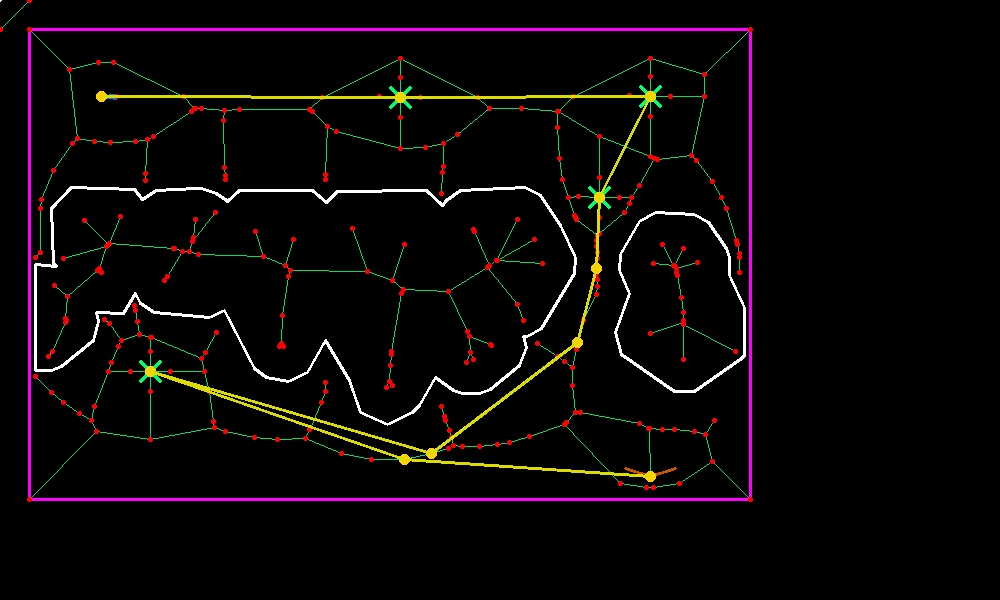
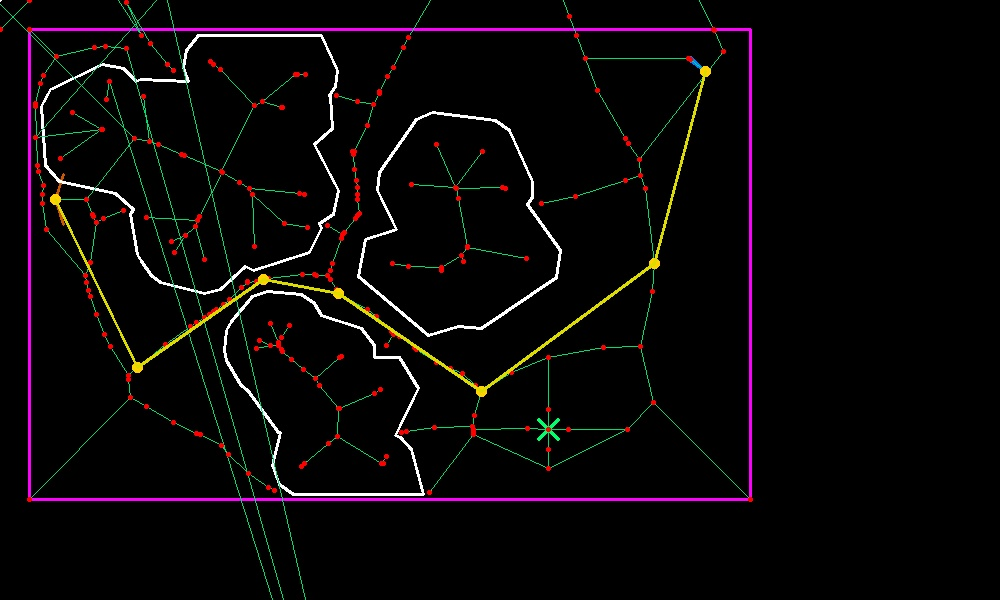
final value

diff --git a/src/find_robot.cpp b/src/find_robot.cpp
@@ -5,7 +5,7 @@ namespace student {
                    const std::string &config_folder) {
 
         //aumento luminosità.... penultimo parametro é alfa, ultimo è beta  pixel = pixel*alfa+beta
-        img_in.convertTo(img_in, -1, 2, 0);
+        img_in.convertTo(img_in, -1, 1.5, 0);
         //aumento della staturazione
         // BGR to HSV
         cv::Mat img;
@@ -25,7 +25,7 @@ namespace student {
 
         cv::Mat blue_mask;
         //cv::inRange(hsv_img, cv::Scalar(100, 120, 150), cv::Scalar(135, 255, 255), blue_mask);
-        cv::inRange(hsv_img, cv::Scalar(100, 100, 30), cv::Scalar(130, 255, 255), blue_mask);
+        cv::inRange(hsv_img, cv::Scalar(90, 80, 70), cv::Scalar(130, 255, 255), blue_mask);
 
         std::vector<std::vector<cv::Point>> contours;
         cv::findContours(blue_mask, contours,

diff --git a/src/student_interface.cpp b/src/student_interface.cpp
@@ -412,7 +412,7 @@ namespace student {
         std::vector<Polygon> merged_list = mergePolygon(englarge_obstacle, obstacle_border);
 
         //Enlargement and merge bigger for prunig level 2
-        std::vector<Polygon> clean_obstacle = enlargeObstacle(obstacle_list, robot_r + 25);
+        std::vector<Polygon> clean_obstacle = enlargeObstacle(obstacle_list, robot_r + 30);
         std::vector<Polygon> clean_merged_list = mergePolygon(clean_obstacle, obstacle_border);
 
         //Initialize voronoi diagram

diff --git a/src/include/Voronoi.hpp b/src/include/Voronoi.hpp
@@ -45,7 +45,7 @@ const double threshold_ricerca = 0.01;
 
 const double threshold_angle = 0.22;
 const double threshold_dist = 0.14;
-const double max_threshold_dist = 0.60;
+const double max_threshold_dist = 0.90;
 
 static double scale = 500.0;
 
